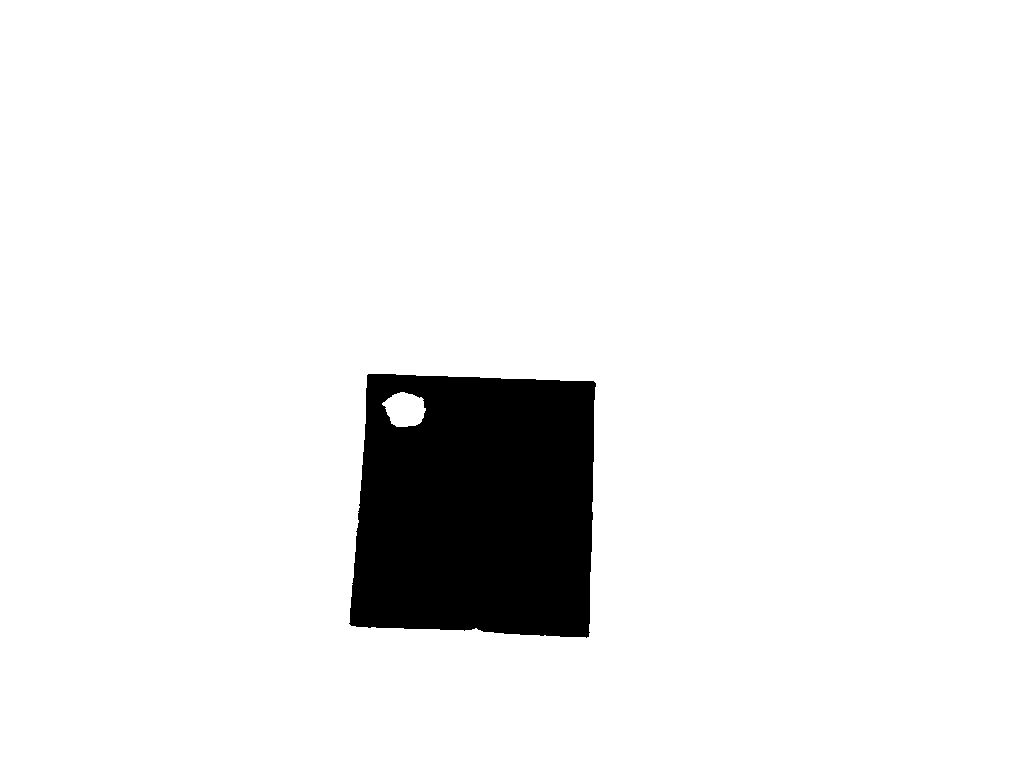
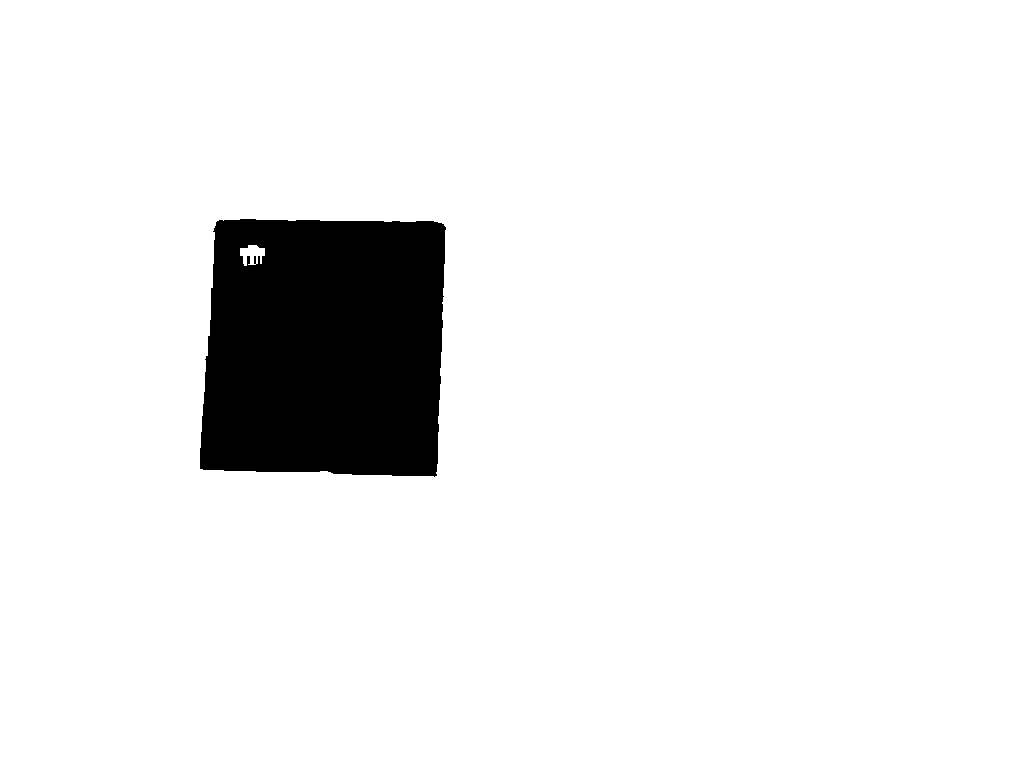
add marker recognition

Changed region(s): [[0.1875, 0.2812, 0.5938, 0.8438]]

diff --git a/redtest.js b/redtest.js
@@ -1,0 +1,53 @@
+var cv = require('opencv');
+var center_of_marker = {};
+
+try {
+  var camera = new cv.VideoCapture(0);
+  var window = new cv.NamedWindow('Video', 0)
+
+  setInterval(function() {
+    camera.read(function(err, im) {
+      if (err) throw err;
+      console.log(im.size())
+      if (im.size()[0] > 0 && im.size()[1] > 0){
+        window.show(im);
+        var im2 = im;
+        findRedMarkerPoint(im2);
+      }
+      window.blockingWaitKey(0, 50);
+    });
+  }, 200);
+
+} catch (e){
+  console.log("Couldn't start camera:", e)
+}
+
+function findRedMarkerPoint(im){
+  im.cvtColor('CV_BGR2GRAY');
+  var lower_threshold = [0,0, 0]; 
+  // var upper_threshold = [60,100,255];
+  var upper_threshold = [60,80,255];
+  im.inRange(lower_threshold, upper_threshold);
+  im.bitwiseNot(im);
+  var contours = im.findContours();
+  // Access vertex data of contours
+  for(var c = 0; c < contours.size(); ++c) {
+    var rect= contours.minAreaRect(c)
+    if(rect.size.height<50 && rect.size.height>10){ 
+      computeCenterOfGravity(rect.points);
+    }
+  }
+};
+
+function computeCenterOfGravity(points){
+  sumx = 0;
+  sumy = 0;
+  for(var i=0;i<points.length;i++){
+    sumx += points[i].x;
+    sumy += points[i].y;
+  }
+  cgx = sumx / points.length;
+  cgy = sumy / points.length;
+  center_of_marker = {x: cgx, y: cgy};
+  console.log(center_of_marker);
+}

diff --git a/thresh-red.js b/thresh-red.js
@@ -13,14 +13,15 @@ var cv = require('opencv');
 //   window.blockingWaitKey(0, 50);
 // });
 
-cv.readImage('cap.jpg', function(err, im){
-    findContour(im); 
+cv.readImage('cap2.jpg', function(err, im){
+  findRedMarkerPoint(im); 
 });
 
 function findRedMarkerPoint(im){
   im.cvtColor('CV_BGR2GRAY');
   var lower_threshold = [0,0, 0]; 
-  var upper_threshold = [60,100,255];
+  // var upper_threshold = [60,100,255];
+  var upper_threshold = [60,80,255];
   im.inRange(lower_threshold, upper_threshold);
   im.save('thresh.jpg');
   im.bitwiseNot(im);
@@ -29,9 +30,20 @@ function findRedMarkerPoint(im){
   // Access vertex data of contours
   for(var c = 0; c < contours.size(); ++c) {
     var rect= contours.minAreaRect(c)
-    if(rect.size.height<50 && rect.size.height<50){ 
-      console.log("Contour " + c);
-      console.log(rect.points);
+    if(rect.size.height<50 && rect.size.height< 10){ 
+      computeCenterOfGravity(rect.points);
     }
-}
+  }
+};
 
+function computeCenterOfGravity(points){
+          sumx = 0;
+          sumy = 0;
+          for(var i=0;i<points.length;i++){
+            sumx += points[i].x;
+            sumy += points[i].y;
+          }
+          cgx = sumx / points.length;
+          cgy = sumy / points.length;
+          console.log(cgx,cgy);
+}

diff --git a/recognize.js b/recognize.js
@@ -55,4 +55,18 @@ function sortPoint(points){
 
 }
 
+function computeCenterOfGravity(points){
+          sumx = 0;
+          sumy = 0;
+          for(var i=0;i<points.length;i++){
+            sumx += points[i].x;
+            sumy += points[i].y;
+          }
+          cgx = sumx / points.length;
+          cgy = sumy / points.length;
+          console.log(cgx,cgy);
+}
+
 sortPoint(p);
+
+computeCenterOfGravity(p);

diff --git a/thresh-adjust.js b/thresh-adjust.js
@@ -15,7 +15,8 @@ camera.read(function(err, im) {
 
 function findContour(im){
   im.cvtColor('CV_BGR2GRAY');
-  var lower_threshold = [70,70, 70]; //Make sure to change
+  // var lower_threshold = [70,70, 70]; //Make sure to change
+  var lower_threshold = [40,40, 40]; //Make sure to change
   var upper_threshold = [255,255,255];
   im.inRange(lower_threshold, upper_threshold);
   im.save('thresh.jpg');

diff --git a/capture.js b/capture.js
@@ -6,7 +6,7 @@ camera.read(function(err, im) {
   if (err) throw err;
   console.log(im.size())
   if (im.size()[0] > 0 && im.size()[1] > 0){
-    im.save('cap.jpg');
+    im.save('cap2.jpg');
   }
 });
 
